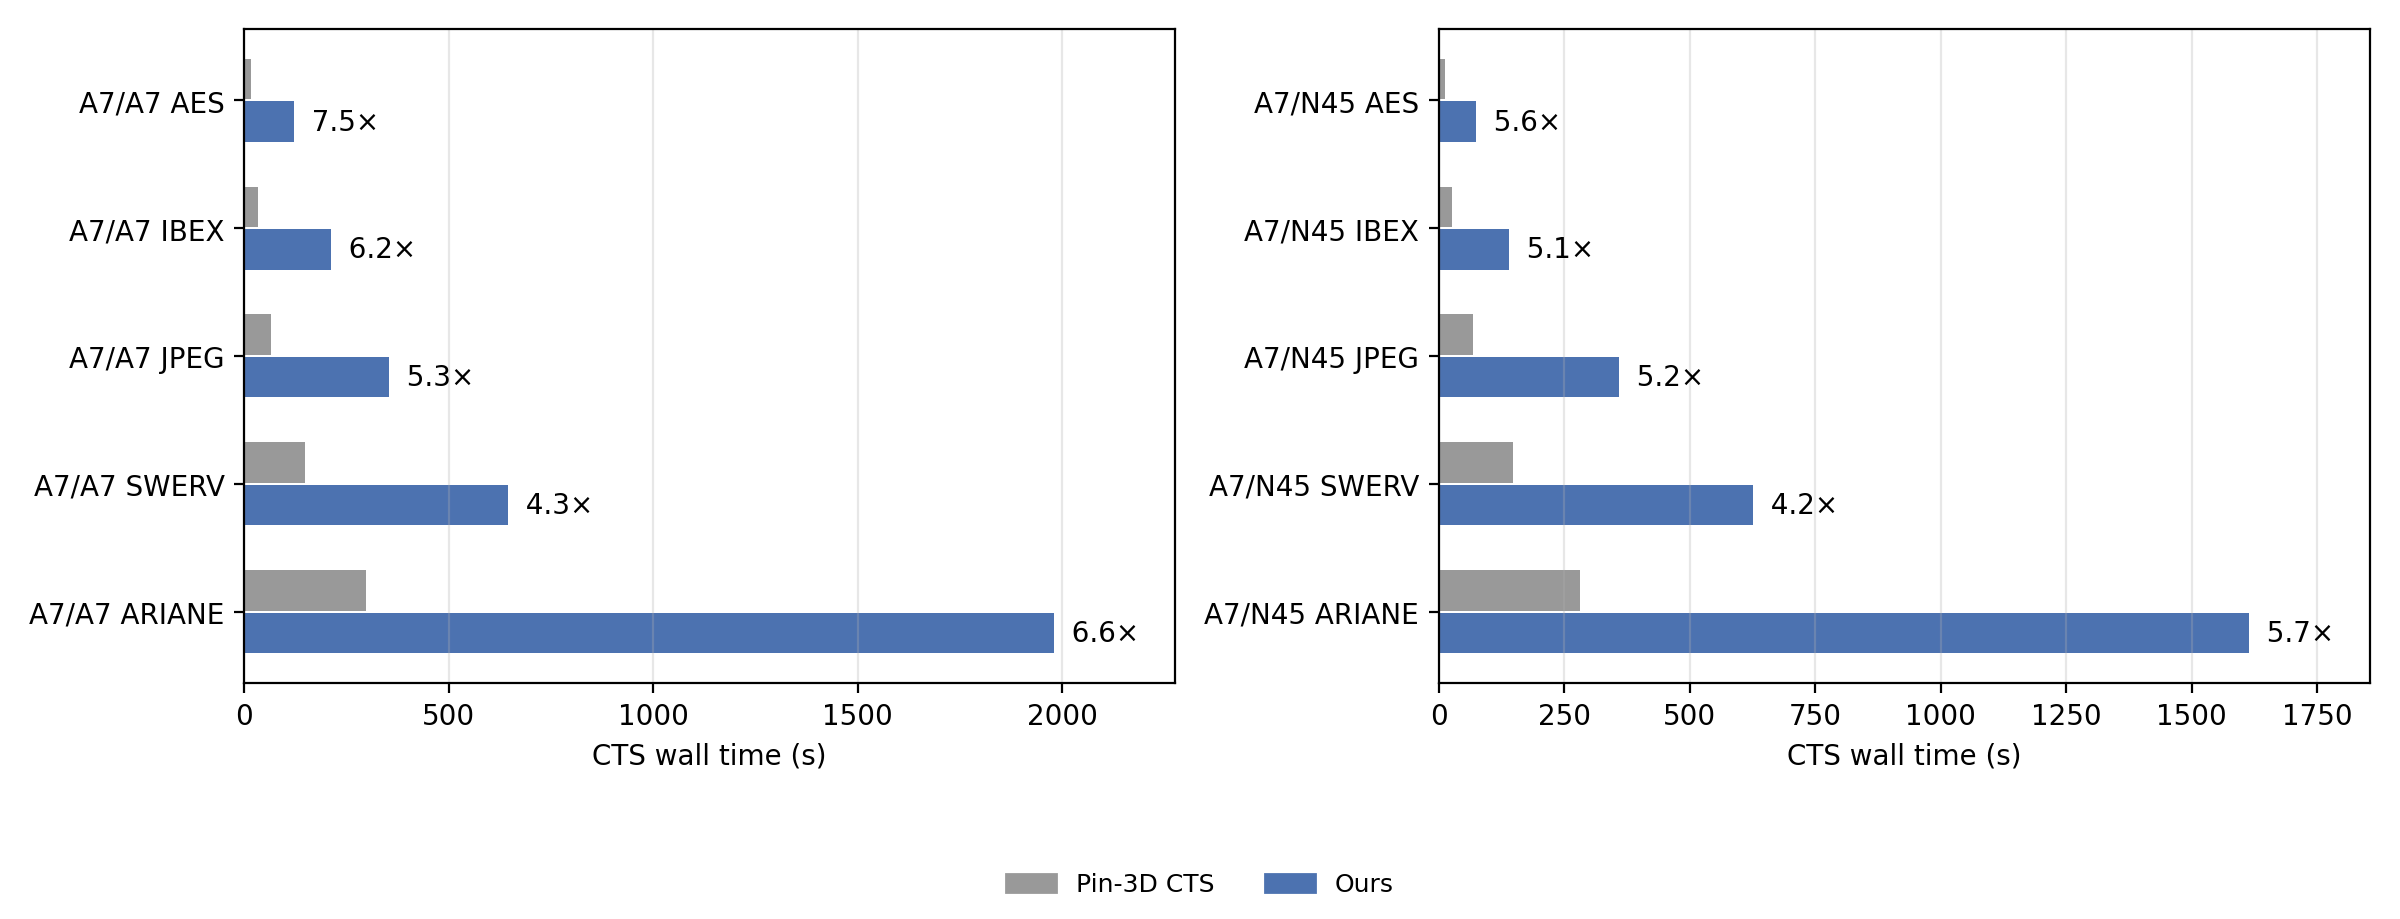
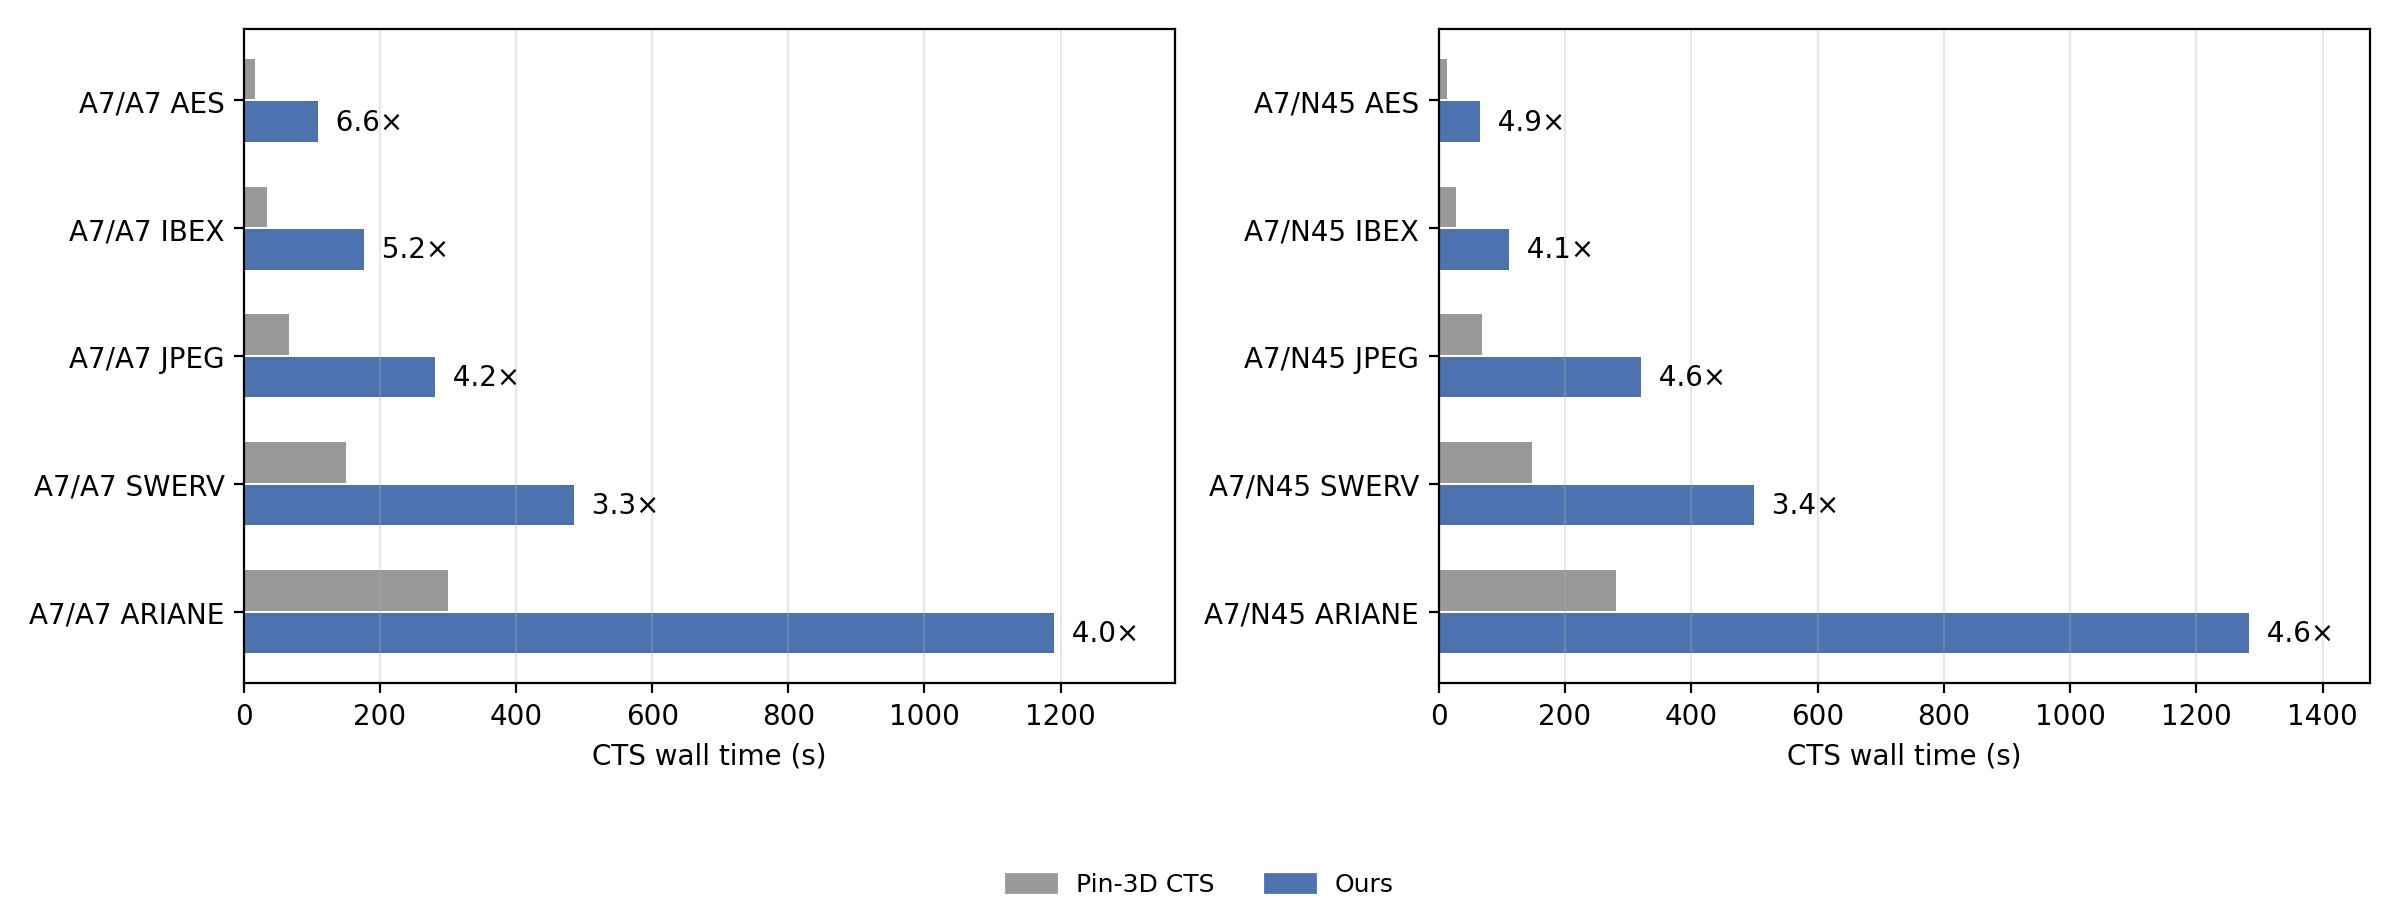
Update results

diff --git a/supplementary/README.md b/supplementary/README.md
@@ -31,7 +31,7 @@ Data: [`data/post_cts_timing.csv`](data/post_cts_timing.csv).
 
 ## CTS Runtime
 
-CTS wall time measured on the same server for both flows. Our CTS takes 4.2× to 7.5× the CTS time of Pin-3D.
+CTS wall time measured on the same server for both flows. Our CTS takes 3.3× to 6.6× the CTS time of Pin-3D.
 Pin-3D runs a single balanced CTS with clock buffers on one tier. Our flow additionally extracts the register timing
 graph with STA, solves the scheduling LP, and evaluates early-clock construction and refinement moves with
 whole-design STA.
